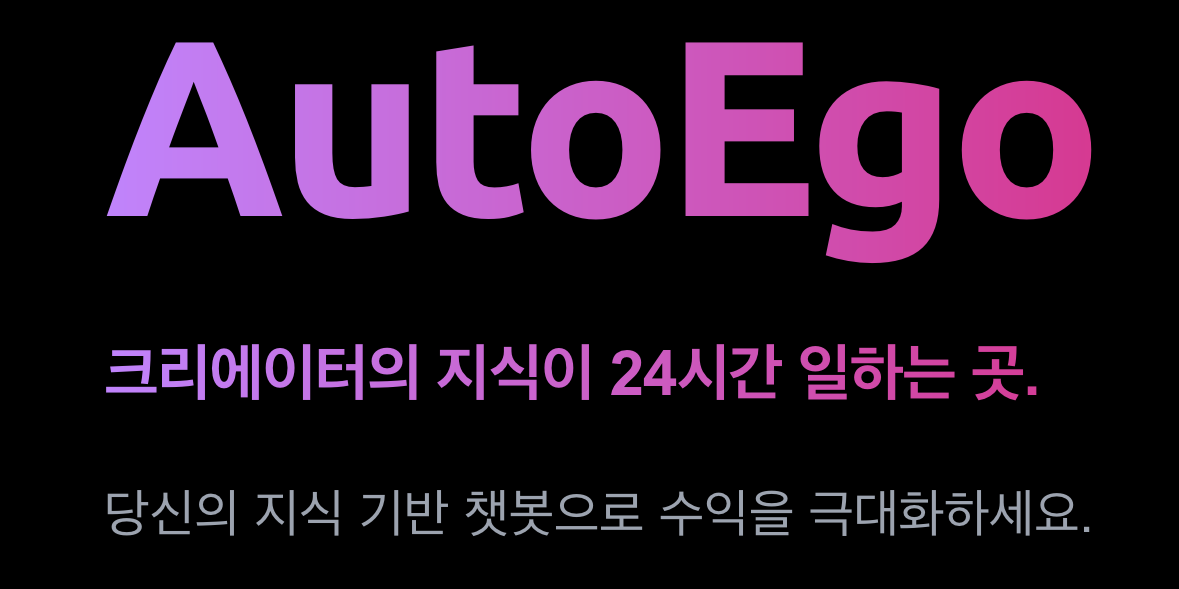
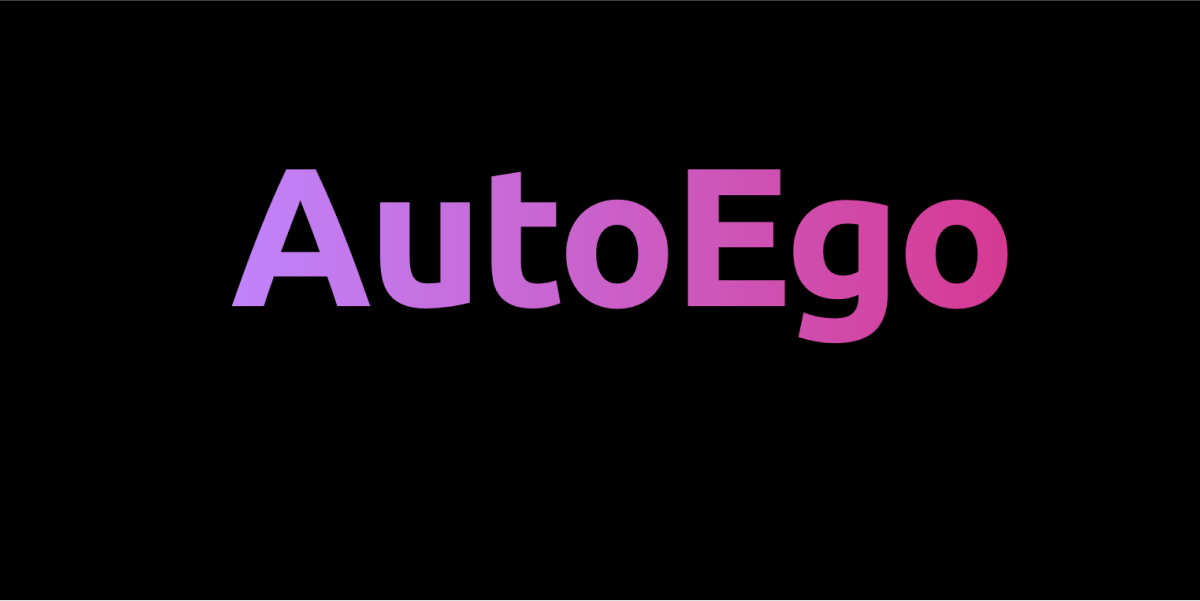
feat: 썸네일 변경

Changed region(s): [[0.0916, 0.0611, 0.9466, 0.7029], [0.0916, 0.8251, 0.916, 0.9168]]

diff --git a/src/app/layout.tsx b/src/app/layout.tsx
@@ -17,7 +17,7 @@ export const metadata: Metadata = {
   description: "AutoEgo: 크리에이터의 지식이 24시간 일하는 곳.",
   openGraph: {
     title: "AutoEgo",
-    description: "AutoEgo: 크리에이터의 지식이 24시간 일하는 곳.",
+    description: "크리에이터의 지식이 24시간 일하는 곳.",
     images: [
       {
         url: "/thumbnail.png",
